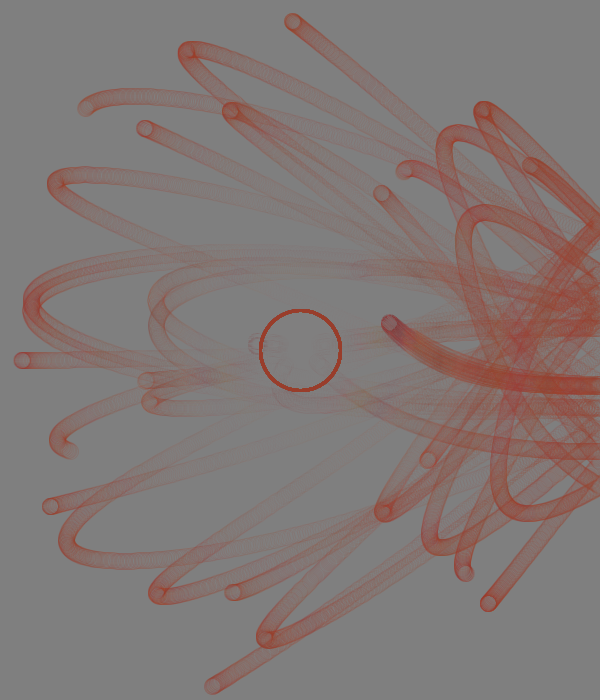
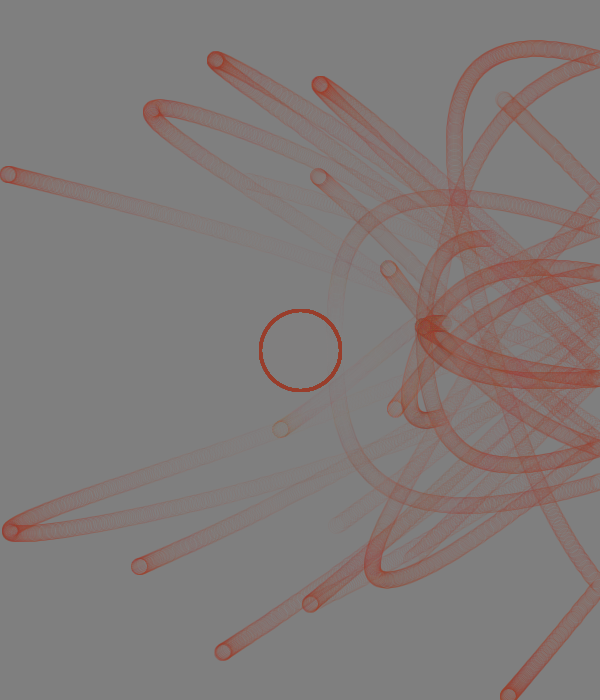
oscillation chapter added

diff --git a/3-Oscillations/oscillations/out/source/oscillations.java b/3-Oscillations/oscillations/out/source/oscillations.java
@@ -1,0 +1,113 @@
+import processing.core.*; 
+import processing.data.*; 
+import processing.event.*; 
+import processing.opengl.*; 
+
+import java.util.HashMap; 
+import java.util.ArrayList; 
+import java.io.File; 
+import java.io.BufferedReader; 
+import java.io.PrintWriter; 
+import java.io.InputStream; 
+import java.io.OutputStream; 
+import java.io.IOException; 
+
+public class oscillations extends PApplet {
+
+Mover[] movers;
+public void setup() {
+    
+    movers = new Mover[1];
+    reset();
+}
+
+public void draw() {
+
+    for(Mover m : movers){
+        m.update();
+        m.display();
+    }
+    
+}
+
+public void mousePressed() {
+    saveFrame("output.png");
+    reset();
+}
+
+public void reset(){
+    background(0);
+
+    for(int i=0 ; i<movers.length ; i++){
+        movers[i] = new Mover();
+    }
+}
+class Mover{
+
+    float locX;
+    float locY;
+
+    float theta;
+    float r;
+    float delta;
+
+    float aVelocity;
+    float aAcceleration;
+
+    Mover(){
+
+        locX = width/2;
+        locY = height/2;
+
+        theta = 0.0f;
+        r = 200;
+        delta = 50/r;
+
+        aVelocity = 0;
+        aAcceleration = 0.001f;
+    }
+
+    public void update(){
+
+        aVelocity = aVelocity + aAcceleration;
+        theta = theta + aVelocity;
+
+        aVelocity = constrain(aVelocity, 0.001f, 0.01f);
+
+        if(r <= 0){
+            aAcceleration = 0.0f;
+            aVelocity = 0.0f;
+            r = 0.0f;
+        }
+        else{
+             r = r-delta;
+        }
+    }
+
+    public void display(){
+
+        float x = r*cos(theta);
+        float y = r*sin(theta);
+
+        pushMatrix();
+        translate(locX, locY);
+        rotate(theta);
+        stroke(181, 76, 34, 75);
+        strokeWeight(1);
+        line(0, 0, x, y);
+        strokeWeight(1);
+        fill(255);
+        ellipse(x, y, 1, 1);
+        popMatrix();
+    }
+}
+  public void settings() {  size(700, 512); }
+  static public void main(String[] passedArgs) {
+    String[] appletArgs = new String[] { "oscillations" };
+    if (passedArgs != null) {
+      PApplet.main(concat(appletArgs, passedArgs));
+    } else {
+      PApplet.main(appletArgs);
+    }
+  }
+}
